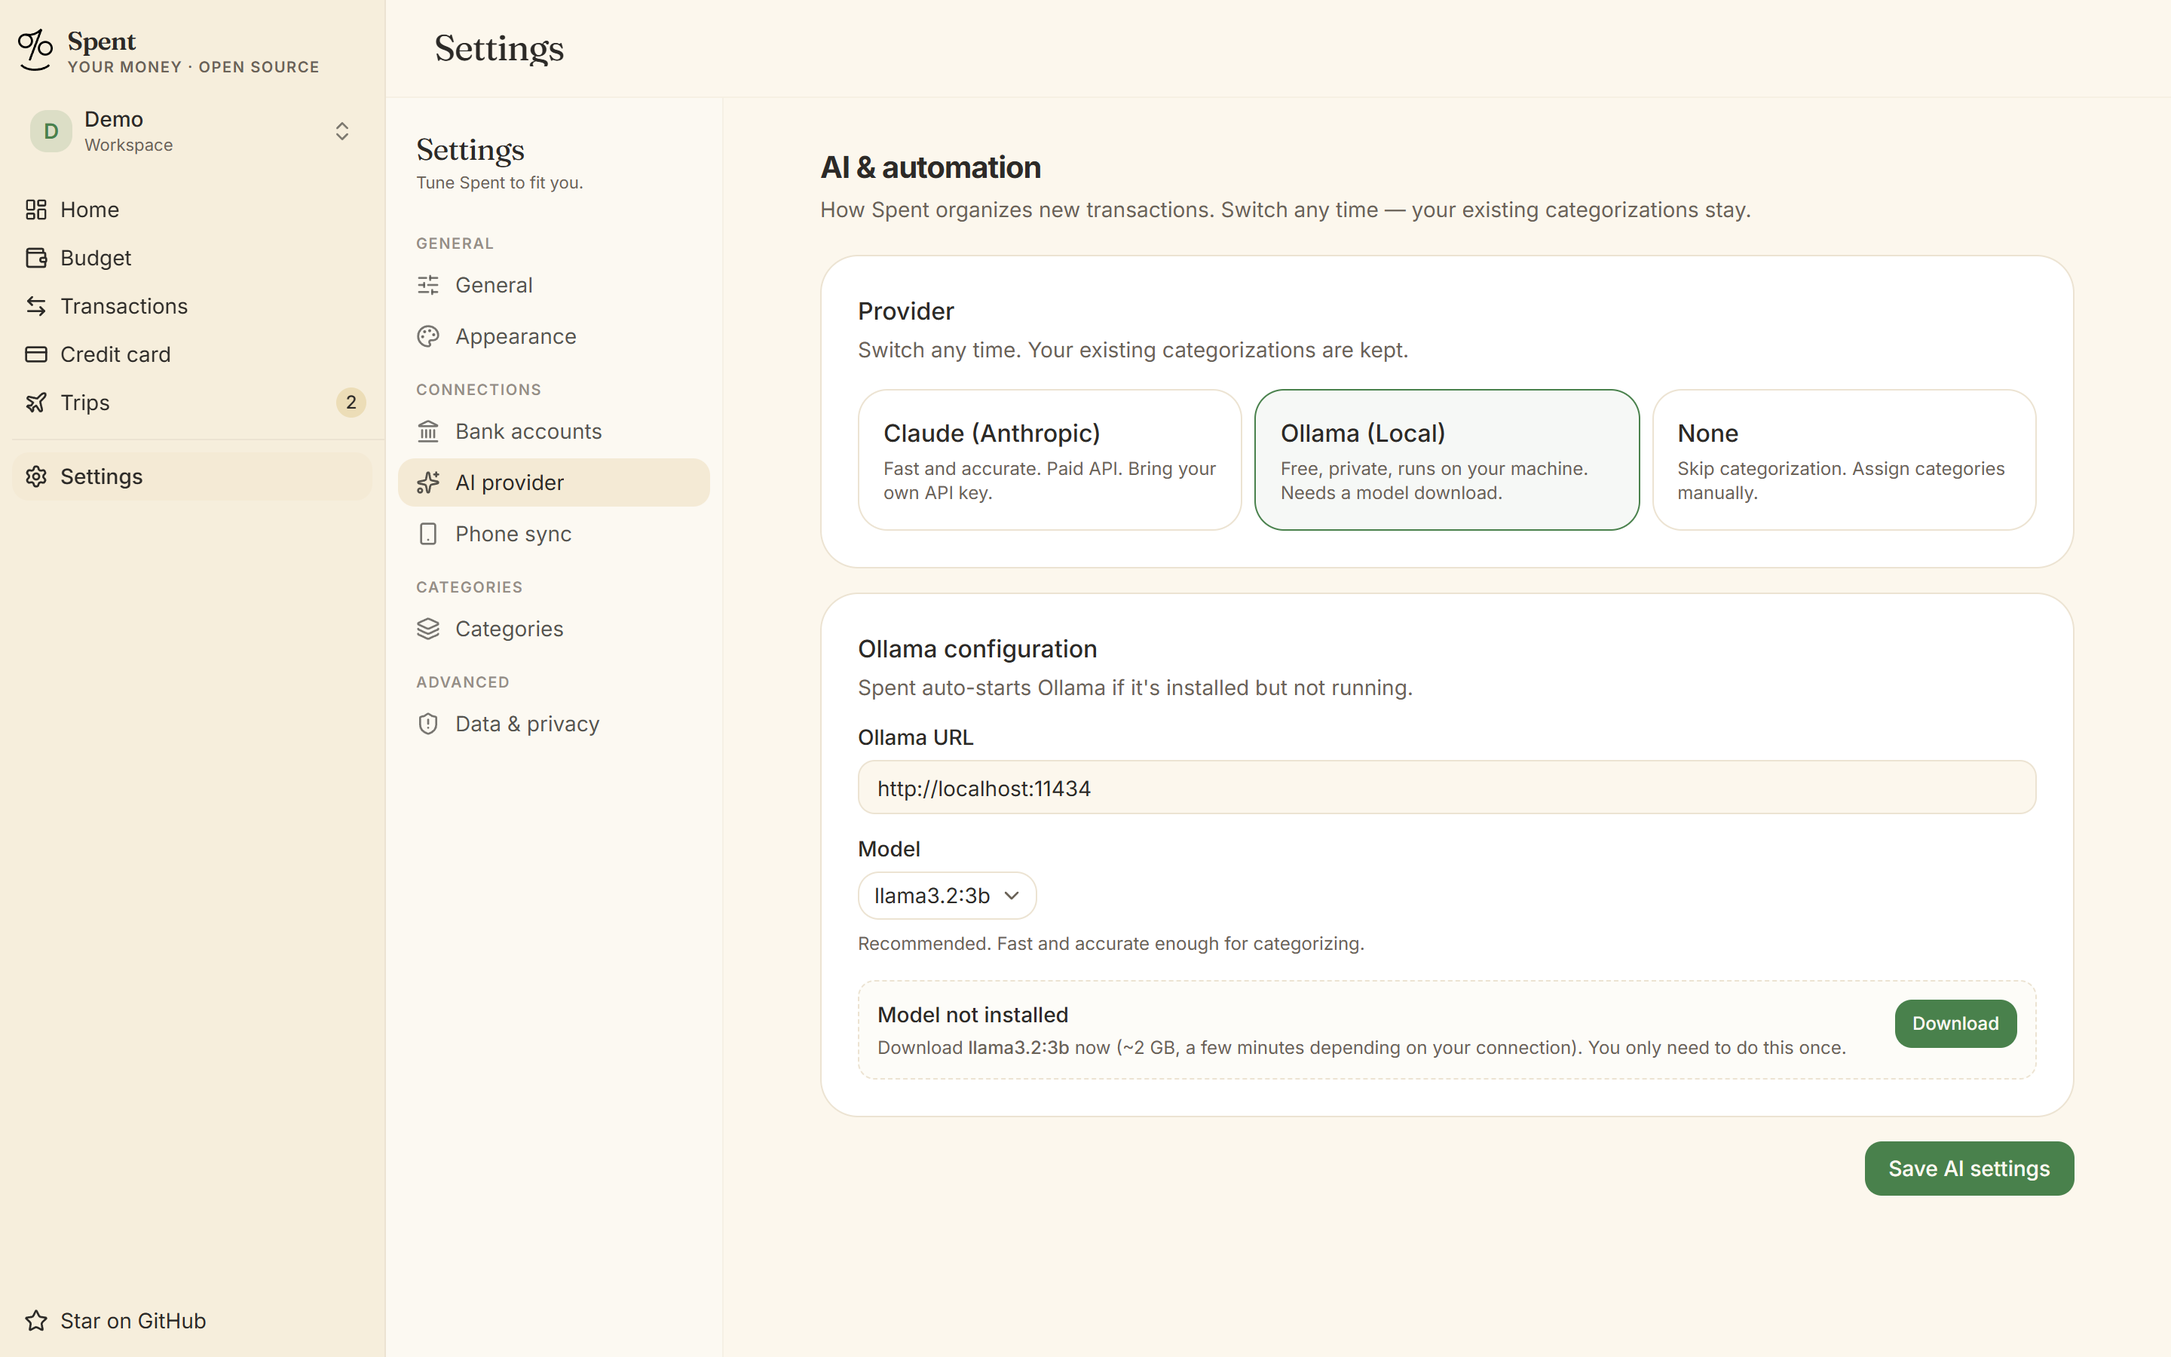
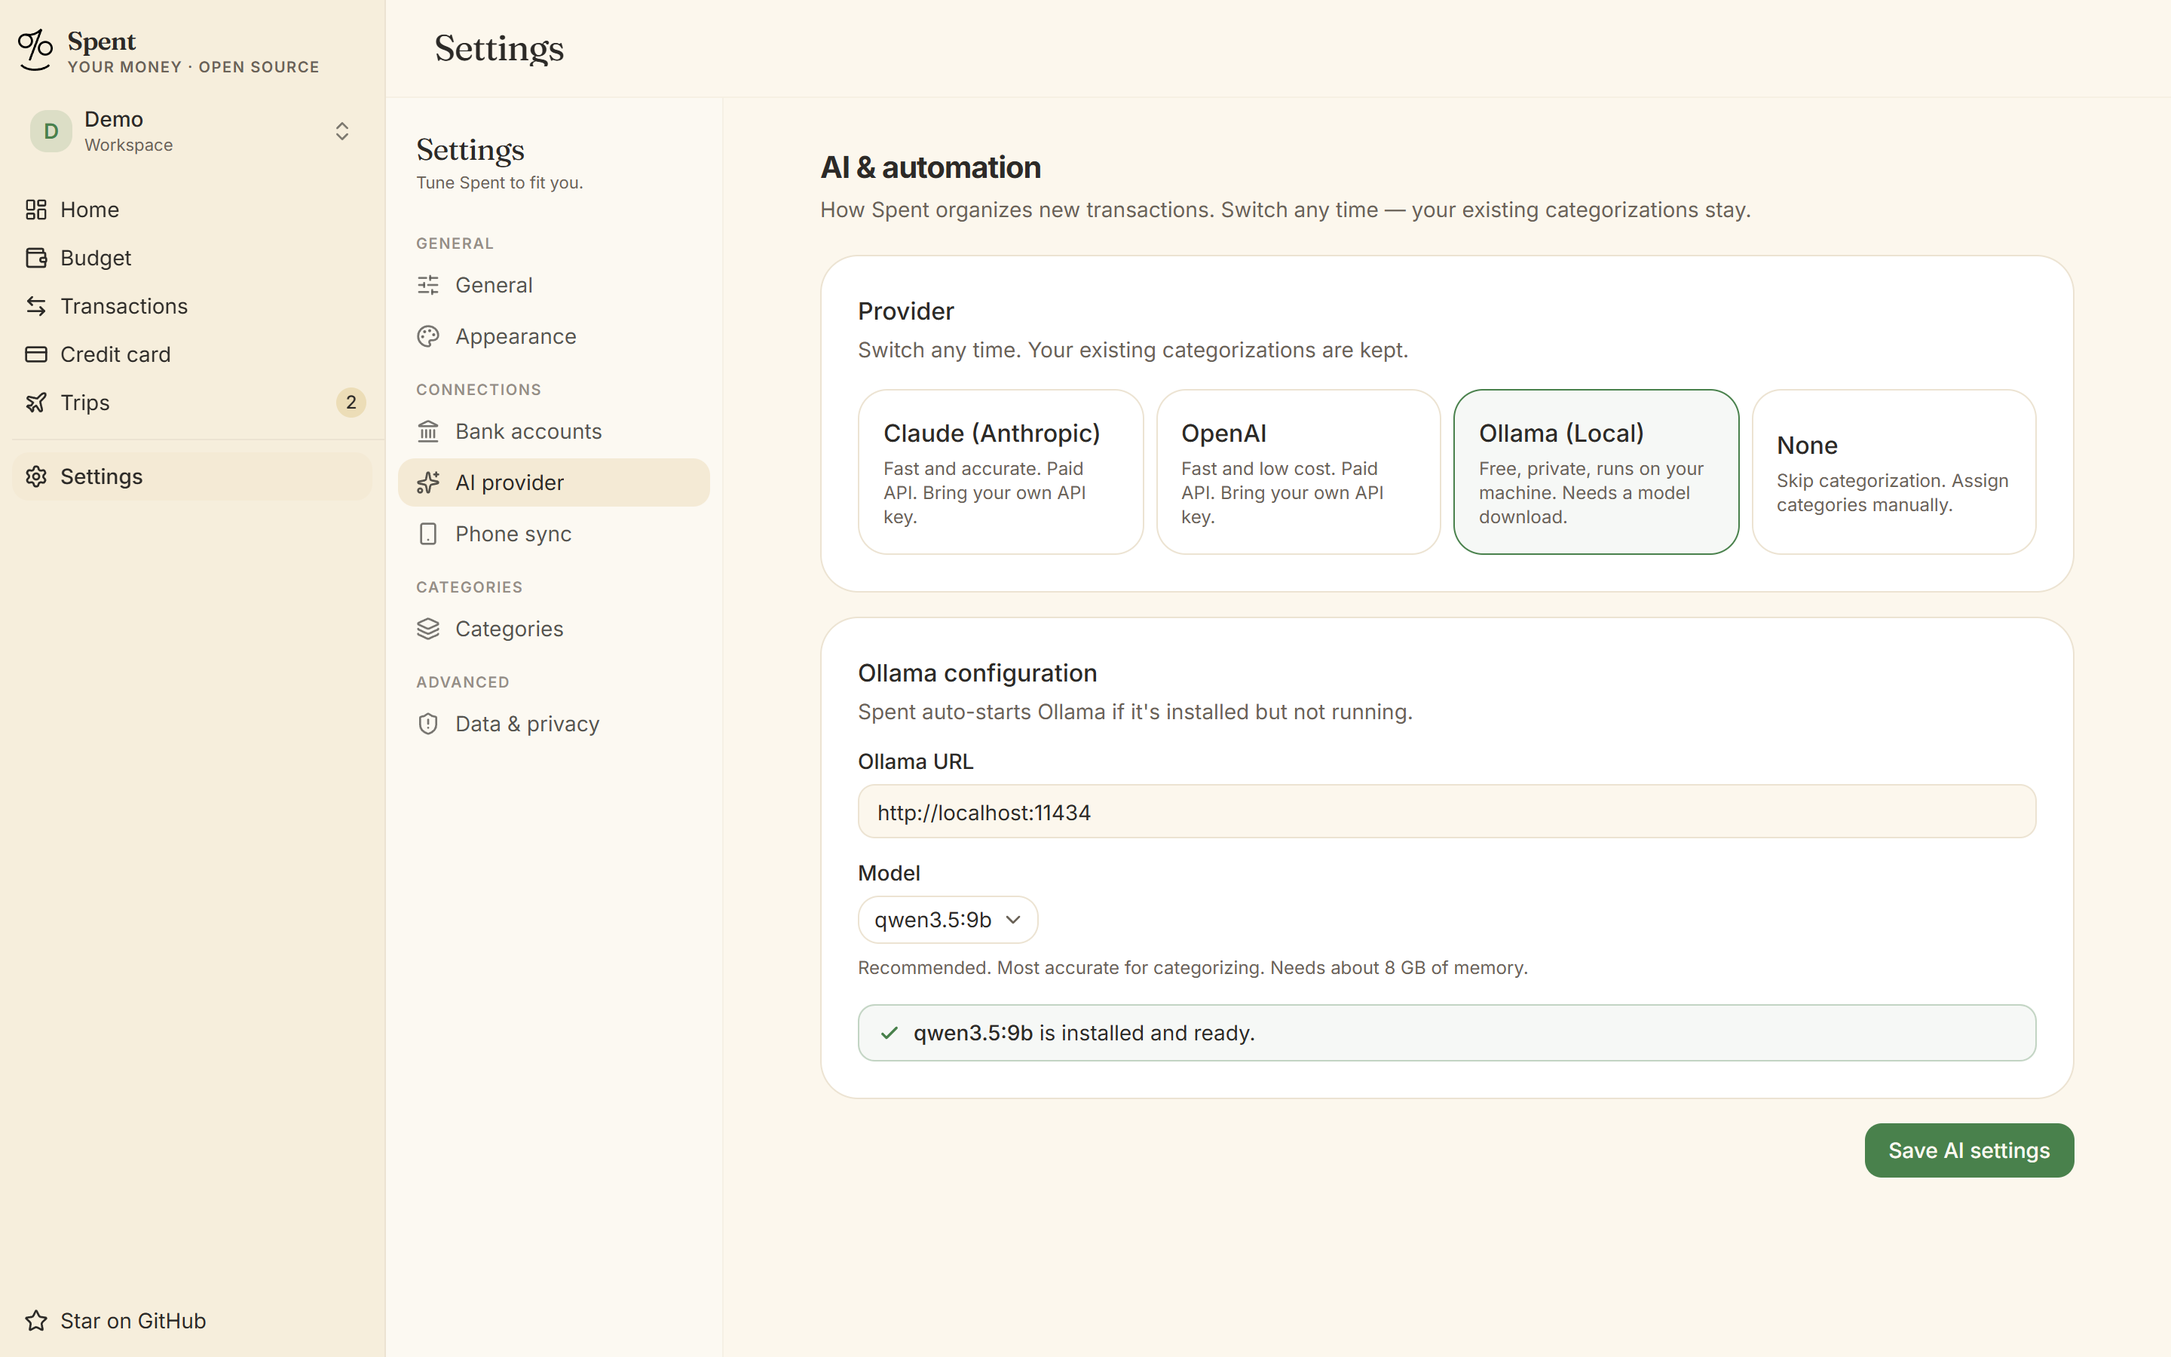
docs: document the OpenAI provider and the new recommended models
Update the README AI providers table, SECURITY.md (stored keys, network
destinations), AGENTS.md (stack, key files, defaults, steps for adding
a provider) and the docs site for Claude Haiku 5.5, GPT-6 Luna and
qwen3.5:9b. The docs site provider grid now shows four cards in two
columns. Retake the AI settings screenshot from the synthetic Demo
workspace.

diff --git a/website/src/styles/global.css b/website/src/styles/global.css
@@ -628,8 +628,8 @@ html { scroll-behavior: smooth; }
 	gap: 1rem;
 	margin: 2rem 0;
 }
-@media (min-width: 60rem) {
-	.docs-providergrid { grid-template-columns: repeat(3, 1fr); }
+@media (min-width: 40rem) {
+	.docs-providergrid { grid-template-columns: repeat(2, 1fr); }
 }
 .docs-provider {
 	display: flex;
@@ -684,5 +684,6 @@ html { scroll-behavior: smooth; }
 	text-underline-offset: 3px;
 }
 .docs-provider--claude { --prov-accent: var(--spent-orange); }
+.docs-provider--openai { --prov-accent: var(--spent-pink); }
 .docs-provider--ollama { --prov-accent: var(--spent-vibrant); }
 .docs-provider--manual { --prov-accent: var(--spent-blue); }

diff --git a/README.md b/README.md
@@ -37,7 +37,7 @@ XLSX imports. AI-categorized. Yours.
 
 Israeli financial exports are awkward, YNAB does not handle ILS the way many local users expect, and cloud finance apps usually ask you to hand over sensitive account data. Spent is for people who would rather run a personal finance app on their own laptop.
 
-The current app flow is file-first. Export XLSX files from supported Israeli institutions, load them from the dashboard, preview parsed rows and duplicates, and import them into a local SQLite database. Spent can then categorize uncategorized transactions with Claude, local Ollama, or no AI at all.
+The current app flow is file-first. Export XLSX files from supported Israeli institutions, load them from the dashboard, preview parsed rows and duplicates, and import them into a local SQLite database. Spent can then categorize uncategorized transactions with Claude, OpenAI, local Ollama, or no AI at all.
 
 The trade-off is honest: you self-host, keep the database on your machine, and choose when to import files. In return you get a fast, polished, offline-friendly dashboard that never phones home except to the AI provider you configure.
 
@@ -56,7 +56,7 @@ Load local XLSX files from Max, Isracard, CAL, Hapoalim, and Leumi templates. Fi
 <td width="33%" valign="top">
 
 ### 🤖 AI categorization
-Choose Claude for best accuracy, Ollama for local LLMs, or no AI. Categorization runs in batches and low-confidence results are marked for review.
+Choose Claude or OpenAI with your own API key, Ollama for a free local model that keeps everything on your machine, or no AI. Categorization runs in batches and low-confidence results are marked for review.
 
 </td>
 <td width="33%" valign="top">
@@ -213,7 +213,7 @@ flowchart LR
     end
 ```
 
-The default flow keeps bank credentials out of the app. XLSX files are read in memory by the browser/server request, previewed, and written into `data/spent.db` only after you click Import. The only optional outbound traffic is to `api.anthropic.com` for Claude or `localhost:11434` for Ollama.
+The default flow keeps bank credentials out of the app. XLSX files are read in memory by the browser/server request, previewed, and written into `data/spent.db` only after you click Import. The only optional outbound traffic is to `api.anthropic.com` for Claude, `api.openai.com` for OpenAI, or `localhost:11434` for Ollama.
 
 ## Supported import formats
 
@@ -239,18 +239,19 @@ That flag is in [`src/lib/features.ts`](src/lib/features.ts). With the flag off,
 
 ## AI providers
 
-| | **Claude** (Anthropic) | **Ollama** (local) | **None** |
-|---|---|---|---|
-| Cost | Paid API usage | Free | Free |
-| Accuracy | Best | Good, model-dependent | Manual |
-| Network | `api.anthropic.com` | `localhost:11434` | Offline |
-| Setup | API key | Install Ollama and pull a model | Nothing |
+| | **Claude** (Anthropic) | **OpenAI** | **Ollama** (local) | **None** |
+|---|---|---|---|---|
+| Recommended model | Claude Haiku 5.5 | GPT-6 Luna | `qwen3.5:9b` | |
+| Cost | Paid API, roughly $0.02 per 1,000 transactions | Paid API, roughly $0.02 per 1,000 transactions | Free | Free |
+| Privacy | Merchant names and amounts go to Anthropic | Merchant names and amounts go to OpenAI | Nothing leaves your machine | Nothing leaves your machine |
+| Network | `api.anthropic.com` | `api.openai.com` | `localhost:11434` | Offline |
+| Setup | API key | API key | Install Ollama and pull a model (6.6 GB, about 8 GB of memory) | Nothing |
 
-Default Claude model: `claude-haiku-4-5-20251001`.
+Cloud models run with reasoning turned off: categorizing a batch is a short classification task, and reasoning tokens would only add cost and latency. Claude also offers Claude Haiku 4.5 in the model picker. On Ollama, smaller Llama models are offered for machines with less memory, and any installed model can be picked.
 
-Default Ollama model: `llama3.2:3b`.
+The OpenAI provider sends `store: false`, so OpenAI does not keep the responses for later retrieval.
 
-You can change providers any time from **Settings → AI**. Existing categorizations are kept.
+You can change providers and models any time from **Settings → AI**. Existing categorizations are kept.
 
 ## Requirements
 
@@ -260,7 +261,7 @@ You can change providers any time from **Settings → AI**. Existing categorizat
   - macOS: Xcode Command Line Tools with `xcode-select --install`
   - Windows: .NET 8 SDK with `winget install Microsoft.DotNet.SDK.8`
 - XLSX exports from a supported template
-- Optional: Claude API key or local Ollama
+- Optional: a Claude or OpenAI API key, or local Ollama
 
 ## Install
 
@@ -285,7 +286,7 @@ Open **`http://spent.localhost:41234`** and bookmark it.
 
 In the browser:
 
-1. **Choose an AI provider** - Claude, Ollama, or none.
+1. **Choose an AI provider** - Claude, OpenAI, Ollama, or none.
 2. **Set your monthly ceiling** - total spend you want to stay under each month.
 3. **Set per-category budgets** - type an amount on any category to budget it, or leave it blank to track without a limit.
 4. **Open the dashboard**.
@@ -370,7 +371,7 @@ To wipe all local app data, delete `data/`.
 | Concern | Defense |
 |---|---|
 | Local data | SQLite database under `data/`, WAL mode, gitignored |
-| Sensitive settings | AES-256-GCM for encrypted settings such as Claude API keys and scraper credentials when scraper mode is enabled |
+| Sensitive settings | AES-256-GCM for encrypted settings such as Claude and OpenAI API keys and scraper credentials when scraper mode is enabled |
 | Network exposure | Production service binds to `127.0.0.1` only |
 | Browser CSRF | Origin and Referer validation on mutation routes |
 | File import | XLSX files are parsed in memory and committed only after preview |
@@ -409,7 +410,7 @@ spent/
 │   ├── lib/                  Shared types, API client, import parsers, UI helpers
 │   ├── mobile/               Android app: on-device router, sql.js, Drive sync
 │   └── server/
-│       ├── ai/               Claude and Ollama providers plus response parsing
+│       ├── ai/               Claude, OpenAI and Ollama providers plus response parsing
 │       ├── db/               SQLite singleton, migrations, query helpers
 │       ├── imports/          Import preview and commit flow
 │       ├── lib/              Encryption, dedup, transfers, pacing, workspace helpers
@@ -462,7 +463,7 @@ To reset state, delete `data/spent.db*` and `data/.encryption-key`.
 - **Linux: "systemd user instance not available"**: run `loginctl enable-linger $USER`.
 - **Windows: hosts edit fails or `spent.localhost` does not resolve**: rerun install from an elevated PowerShell so it can edit `C:\Windows\System32\drivers\etc\hosts`. `http://127.0.0.1:41234` always works as a fallback.
 - **Import preview shows row errors**: check that each file is assigned to the matching template. Max, Isracard, and Hapoalim exports use different headers and date formats.
-- **Ollama categorization fails**: make sure Ollama is running and the selected model is installed, for example `ollama pull llama3.2:3b`.
+- **Ollama categorization fails**: make sure Ollama is running and the selected model is installed, for example `ollama pull qwen3.5:9b`. On a machine with less than about 8 GB of free memory, pick a smaller model such as `llama3.2:3b`.
 
 ## Roadmap
 
@@ -507,4 +508,4 @@ Built on the shoulders of:
 - [`shadcn/ui`](https://ui.shadcn.com/) on top of [`base-ui`](https://base-ui.com/)
 - [`better-sqlite3`](https://github.com/WiseLibs/better-sqlite3)
 - [`next-intl`](https://next-intl.dev/) for English and Hebrew i18n
-- [Anthropic Claude](https://www.anthropic.com/) and [Ollama](https://ollama.com/)
+- [Anthropic Claude](https://www.anthropic.com/), [OpenAI](https://openai.com/) and [Ollama](https://ollama.com/)

diff --git a/AGENTS.md b/AGENTS.md
@@ -95,7 +95,7 @@ Spent does not track investments themselves (balances, returns, portfolios).
 - **better-sqlite3** (WAL mode). It and `israeli-bank-scrapers` must stay in `serverExternalPackages` in `next.config.ts` because native bindings cannot be bundled.
 - **TanStack Query** for client data fetching, **Recharts** for charts, **framer-motion** for animation.
 - **next-intl** with English (default) and Hebrew (RTL). Locale comes from the `NEXT_LOCALE` cookie. Messages live in `src/i18n/messages/{en,he}.json`. Add every new user-facing string to both files.
-- **AI providers:** Claude (`@anthropic-ai/sdk`) or local Ollama, or none.
+- **AI providers:** Claude (`@anthropic-ai/sdk`), OpenAI (Responses API over `fetch`), local Ollama, or none. Cloud requests turn reasoning off (Claude `thinking: {type: "disabled"}`, OpenAI `reasoning.effort: "none"`); Ollama requests send `think: false`.
 
 ## Conventions
 
@@ -201,8 +201,9 @@ A workspace is a data scope, not an account. One local user can keep separate wo
 - `src/server/db/queries/transactions.ts`: dedup-on-insert and transaction queries.
 - `src/lib/trips/`: trip membership, detection, totals and validation (pure, node-testable).
 - `src/server/db/queries/trips.ts`, `src/server/trips/detection.ts`: trip queries and suggestion detection.
-- `src/server/ai/factory.ts`: returns `ClaudeProvider`, `OllamaProvider`, or null.
-- `src/server/ai/prompts.ts`: categorization prompt shared by Claude and Ollama.
+- `src/server/ai/factory.ts`: returns `ClaudeProvider`, `OpenAIProvider`, `OllamaProvider`, or null.
+- `src/server/ai/prompts.ts`: categorization prompt shared by every provider.
+- `src/lib/ai-models.ts`: Claude and OpenAI model lists and defaults. `src/lib/ollama-model-options.ts`: recommended Ollama models and `DEFAULT_OLLAMA_MODEL`.
 - `src/server/api-handlers/`: GET handlers shared by the desktop API routes and the phone router (`src/mobile/router.ts`).
 - `src/server/lib/category-decisions.ts`: recategorize and approve writes, shared by the desktop routes, the phone, and the PC change applier. Sets `category_decided_at`.
 - `src/lib/phone-sync/`: shared formats: `crypto.ts` (envelope), `format.ts` (constants and file names), `changes.ts` (change file), `outbox.ts`, `scheduler.ts` (debounce), `schema-version.ts`.
@@ -244,10 +245,11 @@ An Android companion (Capacitor) shows the same pages on a phone from an encrypt
 
 ### Adding a new AI provider
 
-1. Implement the `AIProvider` interface from `src/server/ai/types.ts`.
-2. Add it to `createAIProvider()` in `src/server/ai/factory.ts`.
-3. Add the option to `src/components/setup/ai-step.tsx` and `src/components/settings/ai-section.tsx`.
-4. Handle its settings keys in `src/app/api/setup/ai/route.ts`.
+1. Add its id to `AIProviderId` in `src/lib/types.ts`, and its model list to `src/lib/ai-models.ts` if it is a cloud API.
+2. Implement the `AIProvider` interface from `src/server/ai/types.ts`. Turn reasoning off in the request.
+3. Add it to `createAIProvider()` in `src/server/ai/factory.ts`, and its error messages to `friendlyAIError` in `src/server/sync/categorization.ts`.
+4. Add the option to `src/components/setup/ai-step.tsx` and `src/components/settings/ai-section.tsx`, with strings in both locale files.
+5. Handle its settings keys in `src/app/api/setup/ai/route.ts`. Store an API key as an encrypted triple whose keys end in `_encrypted`, `_iv` and `_auth_tag`, so the phone snapshot strips it.
 
 ## Running and testing
 
@@ -277,7 +279,7 @@ To reset local state, delete `data/spent.db*` and `data/.encryption-key`.
 - **Known issue: later installments can dedupe away.** An installment purchase repeats in every monthly card file with the same purchase date, merchant and original amount. The payment number ("N of M") only appears in a notes column, and no parser sets `installmentNumber` / `installmentTotal` yet, so payments 2 to M hash the same as payment 1 and are skipped as duplicates. Fixing it needs the real notes format per export, and care so statement rows still dedupe against already stored rows.
 - `identifier` is not reliably unique across institutions. Dedup uses a composite hash plus a per-hash count, so importing the same file twice is safe and genuine identical purchases on the same day are kept.
 - `israeli-bank-scrapers` runs Puppeteer with a hardcoded Asia/Jerusalem timezone. Most banks except OneZero do not support 2FA. Some (Yahav) only return 6 months of history.
-- `claude-haiku-4-5-20251001` is the default Claude model for categorization. Change it in `src/server/ai/providers/claude.ts`.
+- Default models: `claude-haiku-5-5` (Claude), `gpt-6-luna` (OpenAI) and `qwen3.5:9b` (Ollama). The cloud lists are in `src/lib/ai-models.ts`; only list a model whose provider code knows how to turn its reasoning off. A stored model that is no longer listed falls back to the default.
 
 ## Out of scope for now
 

diff --git a/SECURITY.md b/SECURITY.md
@@ -9,7 +9,7 @@ deploy it, almost none of the assumptions hold.
 | Asset | Location | How it's protected |
 |-------|----------|--------------------|
 | Bank credentials | `data/spent.db` (`bank_credentials` table) | Encrypted with AES-256-GCM |
-| Claude API key | `data/spent.db` (`settings` table) | Encrypted with AES-256-GCM |
+| Claude and OpenAI API keys | `data/spent.db` (`settings` table) | Encrypted with AES-256-GCM |
 | Encryption key | `data/.encryption-key` | File permissions `0o600` (owner read-write only). **Not encrypted itself.** |
 | Transaction data | `data/spent.db` (`transactions` table). With phone sync on, also a copy in your Google Drive folder and on each phone | Plaintext inside the SQLite file on the PC. The Drive and phone copies are encrypted with your passphrase (see "Phone sync") |
 | Phone sync snapshot | `snapshot.spent.enc` in the Google Drive folder, and a copy in each phone's app-private storage | AES-256-GCM, key derived from your passphrase |
@@ -20,7 +20,7 @@ deploy it, almost none of the assumptions hold.
 
 ## What's protected at rest
 
-Bank credentials and the Claude API key never sit on disk in plaintext.
+Bank credentials and the Claude and OpenAI API keys never sit on disk in plaintext.
 They're encrypted with a 32-byte random key (`data/.encryption-key`)
 using AES-256-GCM with a fresh IV per write. Anyone who reads the DB
 file alone cannot decrypt them.
@@ -51,7 +51,7 @@ encrypted change files that phones write there. Install guide:
   reference them), but their `credentials_encrypted`, `iv` and
   `auth_tag` columns are blanked.
 - `settings` and `workspace_settings` rows whose key ends in
-  `_encrypted`, `_iv` or `_auth_tag` (for example the Claude API key),
+  `_encrypted`, `_iv` or `_auth_tag` (for example the Claude and OpenAI API keys),
   or starts with `phone_sync_` (the passphrase and sync state), are
   deleted.
 - The file is rewritten with `VACUUM` so deleted values do not linger
@@ -101,6 +101,8 @@ local network or the internet. The library only contacts:
 
 - Your bank's domains (e.g., `digital.isracard.co.il`): via Puppeteer
 - `api.anthropic.com`: only if Claude is your AI provider
+- `api.openai.com`: only if OpenAI is your AI provider. Requests are
+  sent with `store: false`
 - `localhost:11434`: only if Ollama is your AI provider
 - `www.google.com`: favicon API for bank logos (only the domain
   name leaves your machine, no credentials)
@@ -155,6 +157,8 @@ The credential-touching libraries are pinned to exact versions in
 - `israeli-bank-scrapers`: scrapes your bank with your password
 - `better-sqlite3`: reads/writes the DB file
 - `@anthropic-ai/sdk`: sends data to Claude
+
+The OpenAI provider uses the built-in `fetch`, so it adds no dependency.
 
 Run `npm run security:audit` to check for known vulnerabilities, and
 `npm run security:outdated` to see if anything is out of date. Re-audit
